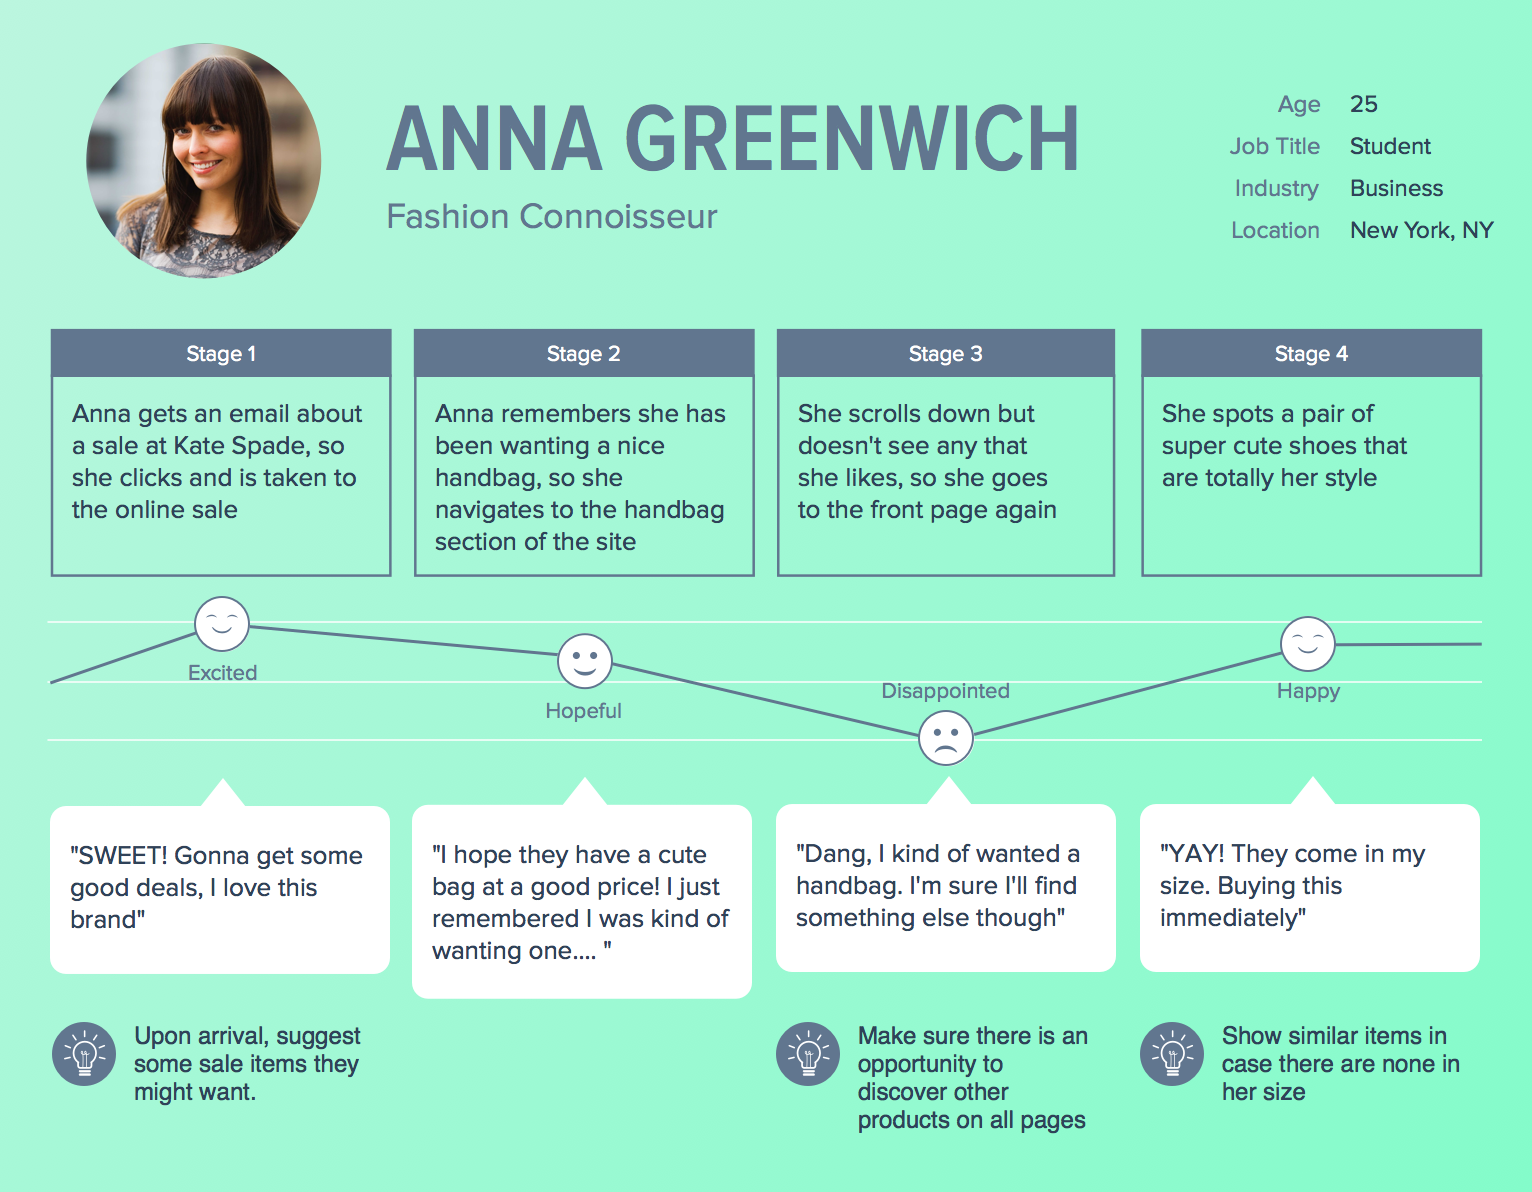
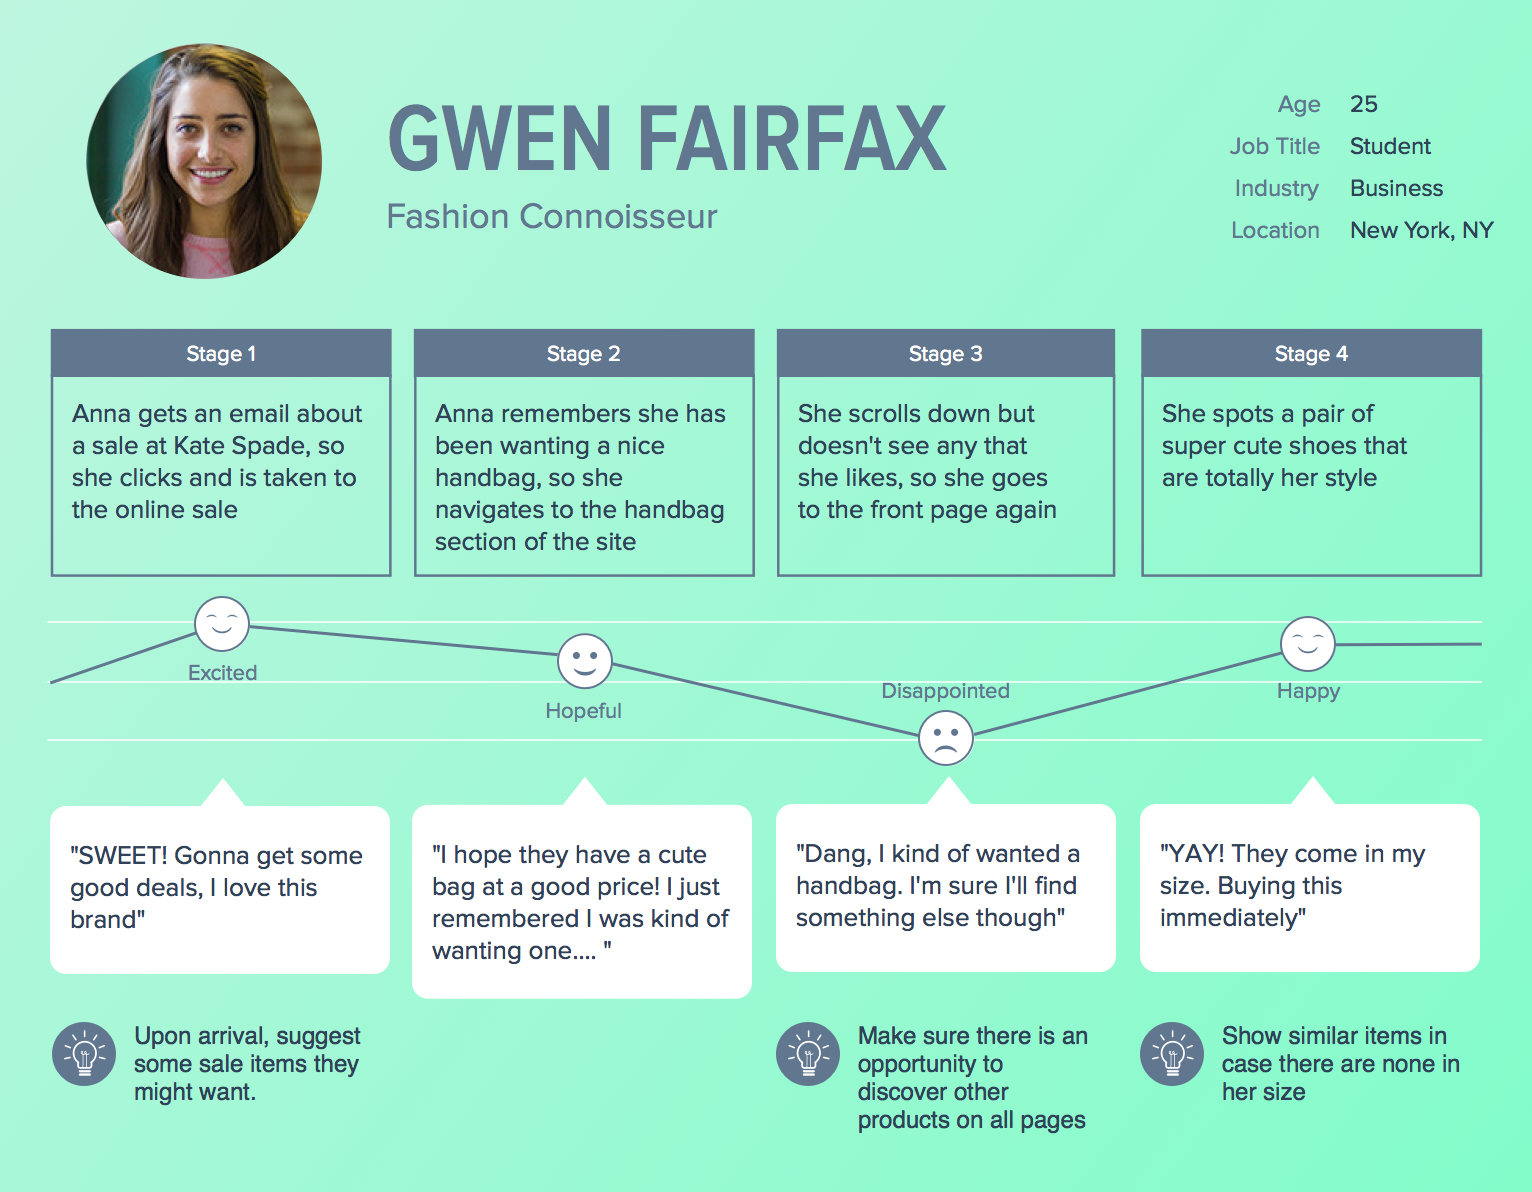
finished retail

Changed region(s): [[0.0307, 0.031, 0.2148, 0.2483], [0.2454, 0.0621, 0.7056, 0.1552]]

diff --git a/retail.html b/retail.html
@@ -130,7 +130,73 @@
             <h6><strong>Overview</strong></h6>
             <p class="alttitle">Currently in progress! Sept 4 - now</p>
             <p>The Innovator’s Practice is a Harvard course aimed at breaking down the process of human centered design and creating opportunities for real-world experience. I am working in a group with three other students from both the college and the Graduate School of Design, and have chosen to focus on the shopping experience in fashion.  We found a common interest in fashion and decided to see what pain points we could uncover in the shopping process, whether that be in-store, online, or through a subscription service. We wanted to see what the motivations were behind choosing one channel over the other, and how the channel affects the shopper’s experience. Our hope going into the project was to get to the core of the shopping experience and uncover what it is missing, and where we might be able to innovate and redefine retail.</p>
+          
+          	<h6><strong>Deliverable</strong></h6>
+            <p>By the end of the semester I aim to have a product prototype, or a proof-of-concept which can be pitched. At this point in the semester, we are just now moving on from our contextual immersion research and into our solution ideation phase. I will update this page as we make progress!</p>          	           	           	
+            
+            <h6><strong>Contextual Immersion</strong></h6>
+            <p>The first step in our process is to gain a better understanding of the shopping scene. These are the questions we wanted to answer during our preliminary research:</p>
+            <ul>
+            	<li>What are some different styles of shopping? (e.g., people who browse, people who only shop online, people who impulse buy, etc.)</li>
+            	<li>What types of situations affect how people shop?</li>
+            	<li>How do different points of entry affect the subsequent shopping experience? How do people act differently?</li>
+            	<li>How do the shoppers’ underlying goals differ between shopping styles? And how do they differ between point of entry?</li>
+            	<li>What are some situations that people find frustrating? How do these frustrations differ by persona?</li>
+            	<li>How do those pain points differ by shopping style?</li>
+            	<li>What are some shopping alternatives / technologies currently in use? (e.g. personal shoppers, eBay, The Hunt, Birchbox, etc.) What issues to they address?</li>
+            	<li>How do people decide where to shop? How do they discover items they like, and find what they need efficiently?</li>
+
+            </ul>
+            
+            <p>With these broad questions we set out into the square to start talking to people in real-life shopping situations, to get the most accurate read on the shopping process. We aimed to talk to a diverse bunch of both shoppers while still staying within our target demographic of 18-30 years old.  We even ended up talking to a few of the store clerks and owners to see if they had any insights coming from the opposite perspective of the shopping experience. Here are a few key excerpts from our discussions:</p>
+            
+            <ul>
+            	<li>“Increased traffic online increases traffic in-store” - owner of J Press</li>
+            	<li>"Most people know what they want coming in, but obviously can’t get fitted online” - owner of J Press</li>
+            	<li>“People reference what they see online ~15% of the time” - store clerk at the Gap</li>
+            	<li>“I online shop at stores I already know my size in” - girl shopping at the Gap</li>
+            	<li>“Lots of customers come in asking questions about specific shoes or brands. You can’t introduce a second option when they come in looking for something specific, because then they will doubt themselves and have to sleep on it” - manager of the Tannery</li>
+            	<li>“They came to look around, but I’m getting bored…” - young male in Urban Outfitters with a few friends</li>
+            	<li>"If I am with a friend that I consider fashionable, I will often check out new brands that they like/recommend.” - college-aged female</li>
+            	<li>"I look for reviews across multiple websites - i.e. so i know they are not too biased to customers that love a brand/site. I look for reviews from people that are similar to me” - college-aged female</li>
+            </ul>
+            
+            <p>We also made note of a few key points of entry for shopping:</p>
+            
+            <ul>
+            
+									<li>marketing email</li>
+									<li>researching a specific product</li>
+									<li>Facebook or Amazon recommendation</li>
+									<li>procrastination browsing</li>
+									<li>friend recommendation</li>
+							
+           				<li>window shopping</li>
+           
+           				<li>looking to try on something specific</li>
+
+           				<li>coupon to use in-store</li>
+           			
+            </ul>
+		
+            
+            <p>Here are a few revelations that stood out from our research:</p>
+            <ul>
+            	<li>Having a good in-store and post-purchase experience is very important as it leads to repeat customers</li>
+            	<li>Shopping with others is only positive if you want to invite others’ opinions - otherwise, it’s just seen as a nuisance and a drain on time</li>
+            	<li>Personal reviews from our trust networks are very persuasive</li>
+            	<li>People assign specific purposes to certain stores so that they can make quick decisions on where to go when they need something</li>
+            </ul>
+            
+            
+            
+            
+            
+            <h6><strong>Defining our personas and user journeys</strong></h6>
+        		<p>A few main personalities and shopping styles emerged from our user interviews and immersion, which exemplify the main types of shoppers in our demographic. These personas don’t represent every person, of course — most people are a mix of traits from different personas. However, these personas all have very different attitudes and different approaches to shopping. Because of these distinct approaches, we thought that creating user journeys for each persona would help us uncover some possible pain points in the journey. Here are the three personas we came up with:</p>
           	
+          		<p class="alttitle">The Fashion Connoisseur</p>	
+          		<p>Gwen is a fashion expert. She’s very invested in looking good and keeping up with the latest trends. She tends to browse and window shop, and she’s super trendy. She is confident in her personal style and tends to shop alone.</p>
            	
 		</div>
           
@@ -138,90 +204,54 @@
            
      <div class="wrapper">
         	<ul class="gallery gallery-col2 spaced">
-						<li class="has-animation"><a href="files/uploads/annapersona.png" data-rel="lightcase"><img src="files/uploads/annapersona.png" alt="snapsale logo"/></a></li>
-						<li class="has-animation" data-delay="200"><a href="files/uploads/danipersona.png" data-rel="lightcase"><img src="files/uploads/danipersona.png" alt="snapsale whiteboard"/></a></li>
+						<li class="has-animation"><a href="files/uploads/gwenpersona.png" data-rel="lightcase"><img src="files/uploads/gwenpersona.png" alt="snapsale logo"/></a></li>
+						<li class="has-animation" data-delay="200"><a href="files/uploads/gwenjourney.png" data-rel="lightcase"><img src="files/uploads/gwenjourney.png" alt="snapsale whiteboard"/></a></li>
             </ul>
+		</div>
+		
+		<div class=wrapper-small>
+		<p class="alttitle">The Get-it-done Shopper</p>
+		<p>Jack is no longer a novice, and he’s invested in his appearance. He is extremely efficient because he’s short on time, and he is traditional because he sticks to what he knows. He is confident in his style and tends to shop alone.</p>
 		</div>
    
    <div class="spacer spacer-small"></div>
-   
-    <div class="wrapper-small">                 	
-                      	           	           	
-            <h6><strong>The Problem</strong></h6>
-            <p></p>
-            
-            
-            <h6><strong>Constraints</strong></h6>
-            <p>.</p>
-            
-		</div>
-         
-         <div class="spacer spacer-small"></div>
-          
-<!--
-           <div class="wrapper">
-           	<ul class="gallery spaced">
-							<li class="has-animation"><a href="files/uploads/snapsaleflow.png" data-rel="lightcase"><img src="files/uploads/snapsaleflow.png" alt="snapsale flow"/></a></li>
+           
+     <div class="wrapper">
+        	<ul class="gallery gallery-col2 spaced">
+						<li class="has-animation"><a href="files/uploads/jackpersona.png" data-rel="lightcase"><img src="files/uploads/jackpersona.png" alt="snapsale logo"/></a></li>
+						<li class="has-animation" data-delay="200"><a href="files/uploads/jackjourney.png" data-rel="lightcase"><img src="files/uploads/jackjourney.png" alt="snapsale whiteboard"/></a></li>
             </ul>
-           </div>
-           
-		<div class="spacer spacer-small"></div>
--->
-           
-           <div class="wrapper-small">
-            
-            <h6><strong>Designing the User Experience</strong></h6>
-            
 		</div>
-            
+		
+				<div class=wrapper-small>
+		<p class="alttitle">The Hands-off Novice</p>
+		<p>Cecily is a novice shopper, minimally invested in fashion, tends to be efficient but can also browse when something catches her eye. She aims to be trendy, but indecisive and a social shopper, bringing lots of friends along for extra opinions.</p>
+		</div>
+   
    <div class="spacer spacer-small"></div>
-          
-<!--
-           <div class="wrapper">
-           	<ul class="gallery spaced">
-							<li class="has-animation"><a href="files/uploads/journeys.png" data-rel="lightcase"><img src="files/uploads/journeys.png" alt="snapsale journeys"/></a></li>
-            </ul>
-           </div>
            
-		<div class="spacer spacer-small"></div>
--->
-         
-    
-           <div class="spacer spacer-small"></div>
-                  
-<!--
-    <div class="wrapper">
-				<ul class="gallery gallery-col3 spaced">
-					<li class="has-animation"><a href="files/uploads/snapsaledetail2.png" data-rel="lightcase"><img src="files/uploads/snapsaledetail2.png" alt="snapsale detail"/></a></li>
-					<li class="has-animation" data-delay="200"><a href="files/uploads/snapsaledetail3.png" data-rel="lightcase"><img src="files/uploads/snapsaledetail3.png" alt="snapsale detail"/></a></li>
-					<li class="has-animation" data-delay="400"><a href="files/uploads/snapsaledetail1.png" data-rel="lightcase"><img src="files/uploads/snapsaledetail1.png" alt="snapsale detail"/></a></li>
-				</ul>
+     <div class="wrapper">
+        	<ul class="gallery gallery-col2 spaced">
+						<li class="has-animation"><a href="files/uploads/cecilypersona.png" data-rel="lightcase"><img src="files/uploads/cecilypersona.png" alt="snapsale logo"/></a></li>
+						<li class="has-animation" data-delay="200"><a href="files/uploads/cecilyjourney.png" data-rel="lightcase"><img src="files/uploads/cecilyjourney.png" alt="snapsale whiteboard"/></a></li>
+            </ul>
 		</div>
-   
-   	<div class="spacer spacer-small"></div>
--->
+ 
+         
    	
     <div class="wrapper-small">       
-            <h6><strong>Scalability</strong></h6>
-            <p></p>
+        
+      
             
-            <h6><strong>Next steps</strong></h6>
-            <p><br><br>
-
-<p>To be continued!</p>
+       <h6><strong>Innovation Focus</strong></h6>
+				<p>Based upon the pain points we identified during our research, and some patterns we noticed during the creation of the personas and journeys, we decided to focus on the problem of discovery and personalization. We found that these issues were consistent throughout all of our personas, no matter their experience level, commitment level, or financial level. The question of “Where can I find the perfect piece for me?” combines the ideas of personalization and discovery, and it is a question that gets at the underlying goal of most shoppers, no matter their point of entry or shopping style. They want to find pieces that are an accurate representation of their fashion sense, and also know where to find them. Going forward, our focus will be on these aspects of the shopping experience, and we hope to formulate an idea for innovation in this area.</p>
+			
+			<p class="alttitle">...To be continued! Check back later in the semester for progress.</p>
 		</div> <!-- END .wrapper -->
 
-        <div class="spacer spacer-small"></div>
+        
 
-        <div class="wrapper">
-   <!--     	
-           <ul class="gallery spaced">
 
-							<li class="has-animation"><a href="files/uploads/es21thumb.png" data-rel="lightcase"><img src="files/uploads/es21thumb.png" alt="snapsale mockup"/></a></li>
-            </ul>
-            
--->
-        </div> <!-- END .wrapper-mini -->
 
         <!-- Single Pagination -->
         <div class="wrapper">

diff --git a/index.html b/index.html
@@ -274,7 +274,7 @@
             <div id="current" class="wrapper-small">
             
              <h4 class="align-center"><strong>What I'm up to now</strong></h4>
-            <h5 class="alttitle align-center">Side projects in progress, fall 2015.</h5>
+            <h5 class="alttitle align-center">Side projects in progress and ongoing work, fall 2015.</h5>
 
             <div class="column-section clearfix">
             	<div class="column one-half team-member">
@@ -285,10 +285,11 @@
                         
                     </div>
                 </div>
+                
                 <div class="column one-half team-member last-col">
                 	<img src="files/uploads/soldier.png" alt=""/>
                     <div class="team-info offset">
-                    	<h4><strong>Soldier design</strong></h4>
+                    	<h4><strong>Soldier Design</strong></h4>
                         <h6 class="alttitle">Student consultant for a mobile innovation project, in collaboration with <a href="http://www.harvardspringboard.net/" class="colored">Harvard Springboard.</a></h6>
                         
                     </div>

diff --git a/files/css/style.css b/files/css/style.css
@@ -2236,7 +2236,7 @@ span.highlight {
   background-color: rgba(15, 216, 197, 0.85);
 	color: white;
 	line-height: 130%;
-	font-size: 56px;
+	/*font-size: 56px;*/
 }
 
 h2.tagline {
